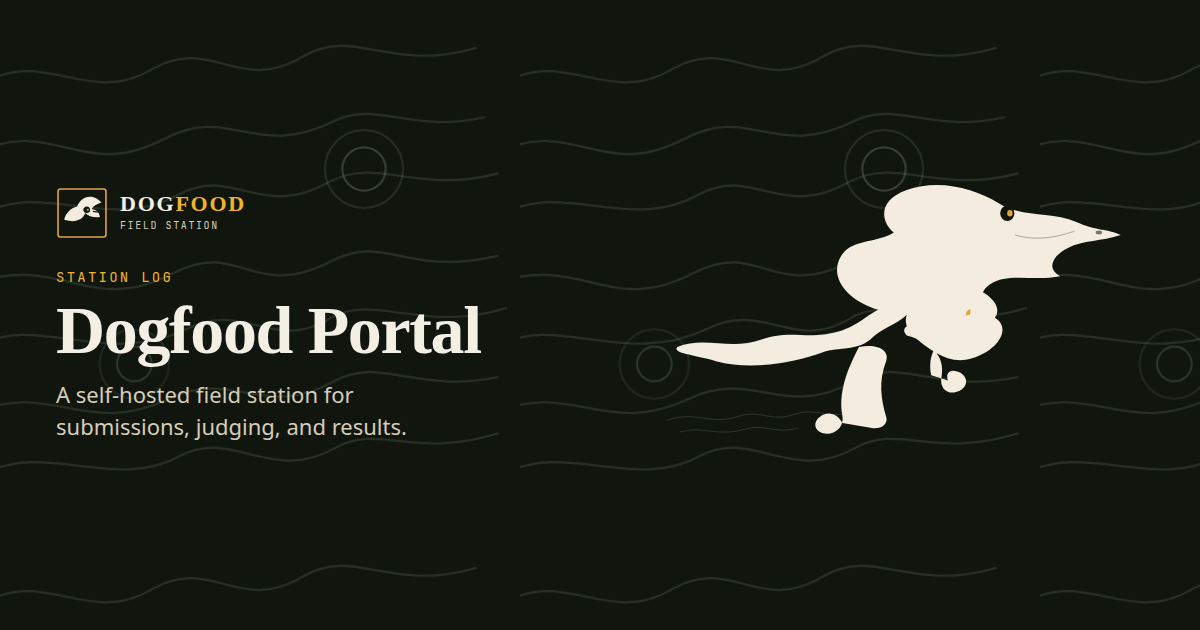
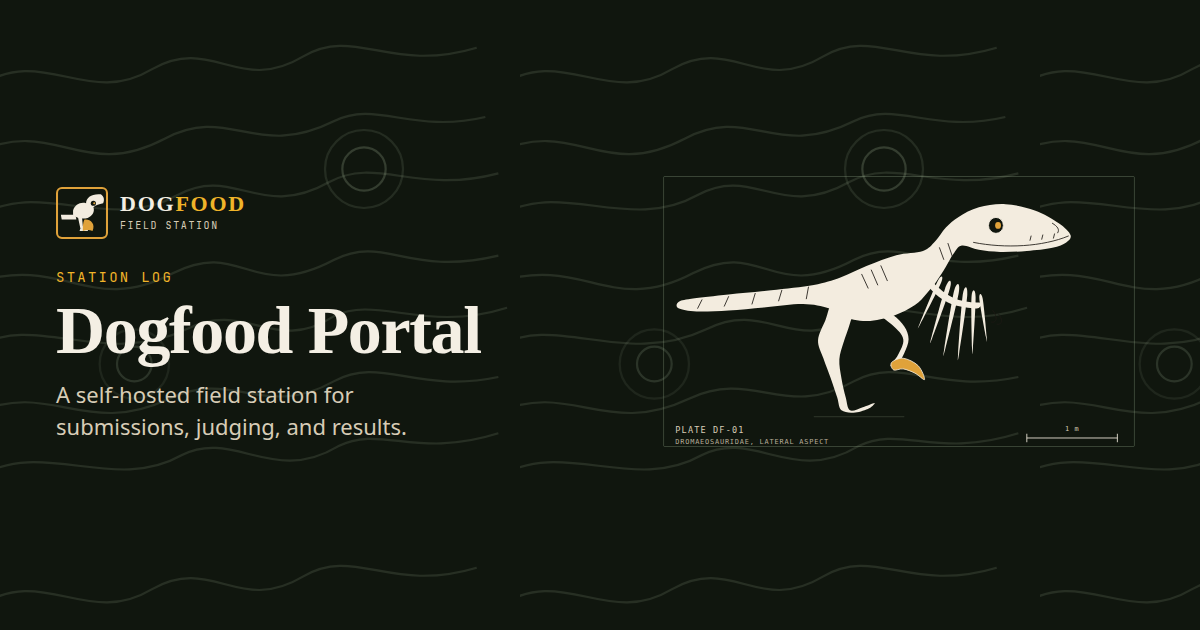
Redraw the specimen plate as a lateral dromaeosaur.
The hero animal now has a stiff tail, sickle claw, feathered arm, and a visible eye, with a specimen line and scale bar. The header mark and favicon use the same simplified silhouette.

Changed region(s): [[0.555, 0.2714, 0.925, 0.7238], [0.0308, 0.2714, 0.0925, 0.3921], [0.8633, 0.6937, 0.925, 0.7238]]

diff --git a/src/dogfood/templates/_raptor.html b/src/dogfood/templates/_raptor.html
@@ -1,62 +1,30 @@
-<svg class="raptor-plate" xmlns="http://www.w3.org/2000/svg" viewBox="0 0 760 460" fill="none" aria-hidden="true" focusable="false">
-  <g opacity="0.35" stroke="#8ea184" stroke-width="1">
-    <path d="M20 400c40-16 70 8 110-6 36-12 50 10 90-4 30-10 48 8 86-2"/>
-    <path d="M40 418c36-10 60 8 100-4 32-10 46 8 84-2"/>
+<svg class="raptor-plate" xmlns="http://www.w3.org/2000/svg" viewBox="0 0 920 500" fill="none" aria-hidden="true" focusable="false">
+  <path stroke="currentColor" stroke-opacity="0.35" stroke-width="1.2" d="M300 468 H470"/>
+  <path fill="currentColor" d="M338.0 250.0 C329.0 254.7 327.0 273.7 322.0 286.0 C317.0 298.3 308.7 312.0 308.0 324.0 C307.3 336.0 314.0 346.0 318.0 358.0 C322.0 370.0 327.7 383.7 332.0 396.0 C336.3 408.3 340.7 422.0 344.0 432.0 C347.3 442.0 346.3 451.3 352.0 456.0 C357.7 460.7 369.3 460.7 378.0 460.0 C386.7 459.3 398.0 455.0 404.0 452.0 C410.0 449.0 416.0 442.3 414.0 442.0 C412.0 441.7 399.7 447.7 392.0 450.0 C384.3 452.3 373.3 459.0 368.0 456.0 C362.7 453.0 362.7 442.0 360.0 432.0 C357.3 422.0 354.0 408.0 352.0 396.0 C350.0 384.0 347.3 371.3 348.0 360.0 C348.7 348.7 352.7 339.3 356.0 328.0 C359.3 316.7 364.7 303.7 368.0 292.0 C371.3 280.3 381.0 265.0 376.0 258.0 C371.0 251.0 347.0 245.3 338.0 250.0 Z"/>
+  <path fill="currentColor" d="M532.8 212.5 C539.5 199.8 544.5 202.2 539.2 215.5 C533.8 228.8 507.4 279.6 500.7 292.3 C494.1 305.0 493.9 305.0 499.3 291.7 C504.6 278.4 526.2 225.2 532.8 212.5 Z"/>
+  <path fill="currentColor" d="M548.0 222.7 C553.8 207.3 560.2 209.3 556.0 225.3 C551.8 241.2 528.7 302.9 522.9 318.3 C517.1 333.7 516.9 333.6 521.1 317.7 C525.3 301.8 542.2 238.1 548.0 222.7 Z"/>
+  <path fill="currentColor" d="M563.5 231.1 C568.1 213.3 575.2 214.7 572.5 232.9 C569.7 251.1 551.6 322.4 547.0 340.2 C542.4 358.0 542.2 358.0 545.0 339.8 C547.7 321.6 559.0 248.9 563.5 231.1 Z"/>
+  <path fill="currentColor" d="M579.8 237.5 C582.7 219.3 589.3 220.0 588.2 238.5 C587.0 256.9 575.8 329.9 573.0 348.1 C570.1 366.3 569.9 366.3 571.0 347.9 C572.2 329.5 577.0 255.8 579.8 237.5 Z"/>
+  <path fill="currentColor" d="M596.2 241.9 C597.3 225.9 603.4 226.1 603.8 242.1 C604.3 258.1 600.0 322.0 598.9 338.0 C597.8 354.0 597.6 354.0 597.1 338.0 C596.7 322.0 595.0 257.9 596.2 241.9 Z"/>
+  <path fill="currentColor" d="M610.9 246.4 C609.9 234.3 614.8 233.7 617.1 245.6 C619.4 257.5 623.7 305.8 624.7 317.9 C625.7 330.0 625.6 330.0 623.3 318.1 C621.0 306.2 611.9 258.5 610.9 246.4 Z"/>
+  <path fill="currentColor" d="M492.0 186.0 C497.0 188.3 509.7 202.3 518.0 210.0 C526.3 217.7 534.0 226.0 542.0 232.0 C550.0 238.0 557.7 242.7 566.0 246.0 C574.3 249.3 584.0 250.7 592.0 252.0 C600.0 253.3 611.3 252.0 614.0 254.0 C616.7 256.0 613.0 262.7 608.0 264.0 C603.0 265.3 592.3 263.3 584.0 262.0 C575.7 260.7 566.3 259.3 558.0 256.0 C549.7 252.7 542.0 248.3 534.0 242.0 C526.0 235.7 517.7 225.7 510.0 218.0 C502.3 210.3 491.0 201.3 488.0 196.0 C485.0 190.7 487.0 183.7 492.0 186.0 Z"/>
+  <path fill="currentColor" d="M46.0 252.0 C50.0 249.0 54.3 248.3 70.0 246.0 C85.7 243.7 115.0 240.7 140.0 238.0 C165.0 235.3 193.3 233.0 220.0 230.0 C246.7 227.0 278.3 224.0 300.0 220.0 C321.7 216.0 333.3 212.0 350.0 206.0 C366.7 200.0 382.5 191.0 400.0 184.0 C417.5 177.0 437.5 168.7 455.0 164.0 C472.5 159.3 492.8 160.3 505.0 156.0 C517.2 151.7 520.8 145.3 528.0 138.0 C535.2 130.7 540.7 119.7 548.0 112.0 C555.3 104.3 561.7 98.3 572.0 92.0 C582.3 85.7 595.3 78.0 610.0 74.0 C624.7 70.0 642.5 67.0 660.0 68.0 C677.5 69.0 698.3 74.0 715.0 80.0 C731.7 86.0 748.8 96.3 760.0 104.0 C771.2 111.7 779.7 120.0 782.0 126.0 C784.3 132.0 779.7 136.0 774.0 140.0 C768.3 144.0 760.3 147.3 748.0 150.0 C735.7 152.7 716.3 154.7 700.0 156.0 C683.7 157.3 665.0 158.3 650.0 158.0 C635.0 157.7 622.0 156.0 610.0 154.0 C598.0 152.0 586.0 144.7 578.0 146.0 C570.0 147.3 567.0 155.3 562.0 162.0 C557.0 168.7 553.3 177.3 548.0 186.0 C542.7 194.7 536.0 205.7 530.0 214.0 C524.0 222.3 518.7 228.7 512.0 236.0 C505.3 243.3 500.3 251.0 490.0 258.0 C479.7 265.0 465.0 273.0 450.0 278.0 C435.0 283.0 415.8 287.7 400.0 288.0 C384.2 288.3 367.0 284.0 355.0 280.0 C343.0 276.0 340.5 268.0 328.0 264.0 C315.5 260.0 299.7 256.3 280.0 256.0 C260.3 255.7 233.3 260.0 210.0 262.0 C186.7 264.0 161.7 266.7 140.0 268.0 C118.3 269.3 95.7 270.7 80.0 270.0 C64.3 269.3 51.7 267.0 46.0 264.0 C40.3 261.0 42.0 255.0 46.0 252.0 Z"/>
+  <path fill="currentColor" d="M372.0 246.0 C372.0 247.7 397.3 259.7 410.0 268.0 C422.7 276.3 438.3 287.0 448.0 296.0 C457.7 305.0 466.3 312.7 468.0 322.0 C469.7 331.3 462.0 343.7 458.0 352.0 C454.0 360.3 444.0 369.3 444.0 372.0 C444.0 374.7 453.7 372.0 458.0 368.0 C462.3 364.0 466.7 355.7 470.0 348.0 C473.3 340.3 478.0 330.3 478.0 322.0 C478.0 313.7 475.0 305.7 470.0 298.0 C465.0 290.3 458.0 282.7 448.0 276.0 C438.0 269.3 422.7 263.0 410.0 258.0 C397.3 253.0 372.0 244.3 372.0 246.0 Z"/>
+  <path fill="#e0a23a" d="M446.0 366.0 C449.0 362.3 459.7 357.0 468.0 358.0 C476.3 359.0 489.3 365.3 496.0 372.0 C502.7 378.7 509.0 395.7 508.0 398.0 C507.0 400.3 496.7 389.3 490.0 386.0 C483.3 382.7 474.7 379.0 468.0 378.0 C461.3 377.0 453.7 382.0 450.0 380.0 C446.3 378.0 443.0 369.7 446.0 366.0 Z"/>
+  <g stroke="#1c1914" stroke-width="1.6" stroke-linecap="round" fill="none">
+    <path d="M600 140 C660 152 730 148 778 128"/>
+    <path d="M748 104 C758 110 762 116 758 122"/>
+    <path d="M708 128 L706 136 M730 126 L728 134 M752 124 L750 132"/>
+    <path d="M90 248 L82 264 M140 242 L132 260 M190 236 L184 256 M240 230 L234 250 M290 224 L286 246"/>
+    <path d="M390 200 L402 226 M408 192 L420 220 M426 184 L438 212"/>
+    <path d="M536 150 L544 172 M552 142 L560 166"/>
+    <path d="M636 268 C646 280 644 292 634 290"/>
+    <path d="M646 274 C656 284 654 296 644 294"/>
   </g>
-  <path fill="currentColor" d="
-    M36 286
-    C78 268 118 292 168 274
-    C214 258 236 276 286 262
-    C318 252 330 236 348 228
-    C300 214 268 176 292 142
-    C308 118 348 124 372 108
-    C352 92 346 58 392 42
-    C442 24 498 40 534 62
-    C572 86 612 74 656 92
-    C688 106 704 102 724 112
-    C694 122 666 120 642 132
-    C618 144 608 164 630 176
-    C590 184 548 170 522 188
-    C500 202 506 226 528 240
-    C556 256 534 292 492 304
-    C458 314 430 292 408 274
-    C392 262 388 248 392 236
-    C378 250 352 258 338 272
-    C318 292 286 286 262 294
-    C210 312 150 322 96 308
-    C62 298 28 296 36 286 Z"/>
-  <path fill="currentColor" d="
-    M318 286
-    C300 320 286 356 292 392
-    C296 412 278 424 262 420
-    C248 416 246 402 258 394
-    C272 384 286 392 292 404
-    L338 412
-    C352 414 364 406 360 394
-    C352 366 348 340 360 308
-    C366 292 348 280 318 286 Z"/>
-  <path fill="currentColor" d="
-    M392 268
-    C430 278 452 300 446 332
-    C442 352 458 362 474 354
-    C490 346 486 328 470 324
-    C458 320 452 328 456 338
-    L430 330
-    C424 300 436 276 468 258
-    C486 248 482 232 466 228
-    C444 222 430 236 436 252
-    C404 246 378 252 392 268 Z"/>
-  <path fill="#e0a23a" d="M466 228c18-16 28-8 24 8-10 2-20 0-24-8z"/>
-  <path fill="currentColor" d="
-    M500 196
-    C528 208 540 228 528 242
-    C518 252 504 246 500 234
-    C496 224 486 226 484 234
-    C480 246 492 254 502 248
-    C478 258 456 240 462 222
-    C466 206 484 190 500 196 Z"/>
-  <ellipse class="raptor-eye" cx="548" cy="78" rx="11" ry="12" fill="#10160e"/>
-  <ellipse class="raptor-eye-pupil" cx="552" cy="78" rx="4.2" ry="5" fill="#e0a23a"/>
-  <ellipse cx="690" cy="108" rx="5" ry="3" fill="#10160e" opacity="0.55"/>
-  <path stroke="#10160e" stroke-opacity="0.35" stroke-width="1.4" d="M560 112c28 8 58 6 92-6"/>
+  <ellipse class="raptor-eye" cx="642" cy="108" rx="14" ry="15" fill="#10160e"/>
+  <ellipse class="raptor-eye-pupil" cx="646" cy="108" rx="5.5" ry="6.5" fill="#e0a23a"/>
 </svg>
+<p class="plate-caption">
+  <span>Plate DF-01 · Dromaeosauridae, lateral</span>
+  <span class="scalebar"><i></i>1 m</span>
+</p>

diff --git a/src/dogfood/static/app.css b/src/dogfood/static/app.css
@@ -289,6 +289,28 @@ p.lede { color: #d7ccb6; margin: 0 0 22px; max-width: 68ch; }
 }
 .hero-art { color: var(--bone); }
 .raptor-plate { width: 100%; height: auto; display: block; }
+.plate-caption {
+  display: flex;
+  justify-content: space-between;
+  align-items: baseline;
+  gap: 10px 16px;
+  flex-wrap: wrap;
+  margin: 8px 2px 0;
+  font-family: var(--mono);
+  font-size: 11px;
+  letter-spacing: 0.14em;
+  text-transform: uppercase;
+  color: #d7ccb6;
+}
+.scalebar { display: inline-flex; align-items: center; gap: 8px; white-space: nowrap; }
+.scalebar i {
+  display: inline-block;
+  width: 52px;
+  height: 7px;
+  border-bottom: 1.5px solid #f3ecdf;
+  border-left: 1.5px solid #f3ecdf;
+  border-right: 1.5px solid #f3ecdf;
+}
 .hero h1 {
   animation: scratch-in 780ms cubic-bezier(0.16, 0.84, 0.32, 1) both;
 }

diff --git a/DESIGN.md b/DESIGN.md
@@ -50,8 +50,8 @@ Body size is 16px, line-height 1.6. Headings use Fraunces with tight leading. Ca
 
 ## Components
 
-- **Station header.** Sticky canopy bar, original raptor-head mark, wordmark DOGFOOD, “Field station” subtitle. Primary links underline in amber when current. Below 860px the links collapse into a Menu disclosure.
-- **Hero.** Display title plus the original raptor plate. The title wipes in like a claw scratch. The plate’s eye blinks on a slow cycle. Both motions are disabled under `prefers-reduced-motion`.
+- **Station header.** Sticky canopy bar, a simplified raptor mark (tail, snout, eye, sickle claw), wordmark DOGFOOD, “Field station” subtitle. Primary links underline in amber when current. Below 860px the links collapse into a Menu disclosure.
+- **Hero.** Display title plus an engraved lateral plate of a dromaeosaur: stiff tail, lean skull, feathered arm, and an amber sickle claw. A specimen line and a one-metre scale sit under the plate. The title wipes in like a claw scratch. The plate’s eye blinks on a slow cycle. Both motions are disabled under `prefers-reduced-motion`.
 - **Kickers.** Mono labels (Catalogue, Specimen, Ballot, Chain of custody) sit above each page title.
 - **Specimen cards.** Bone sheet, corner ticks, “Specimen / id” line, Fraunces title, tag chips.
 - **Panels and stats.** Same bone sheet. Stats get a catalogue corner and a Fraunces numeral.

diff --git a/ASSETS.md b/ASSETS.md
@@ -8,10 +8,10 @@ Drawn for this project (no third-party licence; use within this repo).
 
 | File | What it is |
 | --- | --- |
-| `src/dogfood/static/raptor.svg` | Field-plate raptor, side view, used as the source drawing |
-| `src/dogfood/templates/_raptor.html` | The same plate, inlined so the eye can blink |
-| `src/dogfood/static/mark.svg` | Header mark: raptor head in a specimen frame |
-| `src/dogfood/static/favicon.svg` | Station favicon |
+| `src/dogfood/static/raptor.svg` | Engraved lateral dromaeosaur plate, with caption and scale bar |
+| `src/dogfood/templates/_raptor.html` | The same animal, inlined so the eye can blink |
+| `src/dogfood/static/mark.svg` | Header mark: simplified raptor in a specimen frame |
+| `src/dogfood/static/favicon.svg` | Station favicon, same simplified raptor on a canopy tile |
 | `src/dogfood/static/footprint.svg` | Three-toed track used by the scroll gait |
 | `src/dogfood/static/claw.svg` | Claw-scratch divider |
 | `src/dogfood/static/topo.svg` | Repeating contour-line tile |
